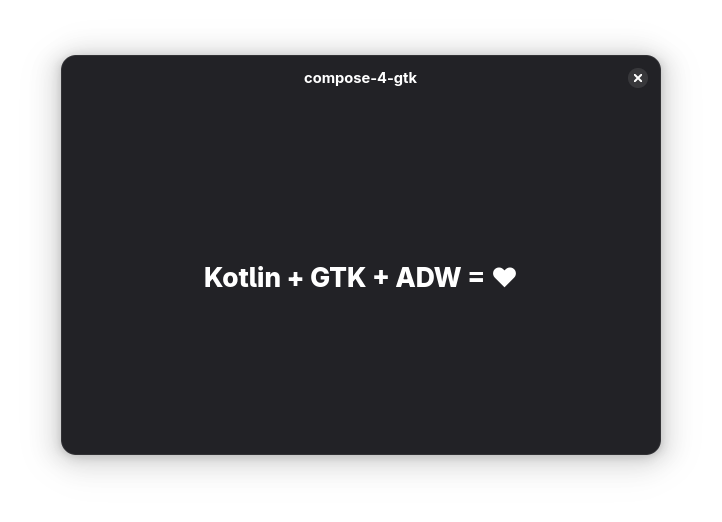
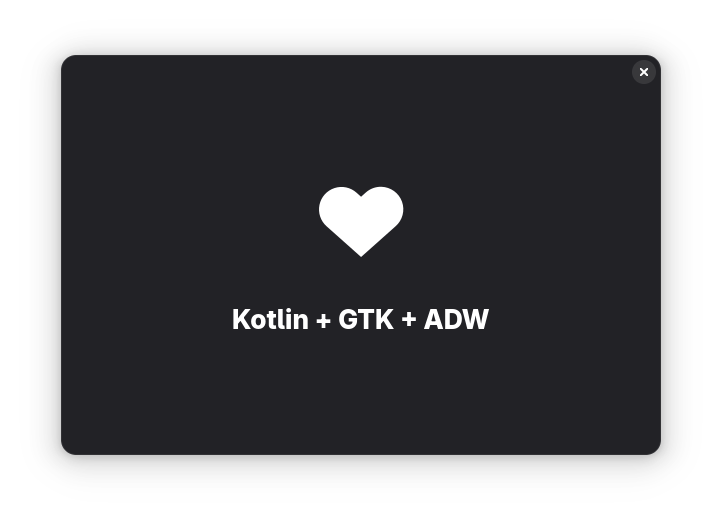
Update welcome image

diff --git a/src/test/kotlin/Welcome.kt b/src/test/kotlin/Welcome.kt
@@ -1,27 +1,51 @@
 import io.github.mmarco94.compose.adw.application
 import io.github.mmarco94.compose.adw.components.ApplicationWindow
-import io.github.mmarco94.compose.adw.components.HeaderBar
-import io.github.mmarco94.compose.gtk.components.Label
-import io.github.mmarco94.compose.gtk.components.VerticalBox
+import io.github.mmarco94.compose.gtk.ImageSource
+import io.github.mmarco94.compose.gtk.components.*
 import io.github.mmarco94.compose.modifier.Modifier
 import io.github.mmarco94.compose.modifier.alignment
 import io.github.mmarco94.compose.modifier.cssClasses
-import io.github.mmarco94.compose.modifier.expandVertically
+import io.github.mmarco94.compose.modifier.margin
+import io.github.mmarco94.compose.useGioResource
 import org.gnome.gtk.Align
+import org.gnome.gtk.Orientation
+import org.gnome.gtk.PackType
 
 fun main(args: Array<String>) {
-    application("my.example.hello-app", args) {
-        ApplicationWindow(
-            "compose-4-gtk",
-            onClose = ::exitApplication,
-            defaultWidth = 600,
-            defaultHeight = 400,
-        ) {
-            VerticalBox {
-                HeaderBar(Modifier.cssClasses("flat"))
-                Label(
-                    "Kotlin + GTK + ADW = ❤",
-                    Modifier.expandVertically().alignment(Align.CENTER).cssClasses("title-1"),
+    useGioResource("resources.gresource") {
+        application("my.example.hello-app", args) {
+            ApplicationWindow(
+                "compose-4-gtk",
+                onClose = ::exitApplication,
+                defaultWidth = 600,
+                defaultHeight = 400,
+            ) {
+                Overlay(
+                    mainChild = {
+                        CenterBox(orientation = Orientation.VERTICAL) {
+                            VerticalBox(Modifier.margin(16)) {
+                                Image(
+                                    image = ImageSource.Icon("heart-filled-symbolic"),
+                                    iconSize = ImageSize.Specific(96),
+                                    modifier = Modifier.margin(16),
+                                )
+                                Label(
+                                    "Kotlin + GTK + ADW",
+                                    Modifier.margin(16).alignment(Align.CENTER).cssClasses("title-1"),
+                                )
+                            }
+                        }
+                    },
+                    overlays = {
+                        WindowControls(
+                            side = PackType.START,
+                            modifier = Modifier.alignment(Align.START, Align.START),
+                        )
+                        WindowControls(
+                            side = PackType.END,
+                            modifier = Modifier.alignment(Align.END, Align.START),
+                        )
+                    }
                 )
             }
         }

diff --git a/src/test/kotlin/FancyWindow.kt b/src/test/kotlin/FancyWindow.kt
@@ -26,9 +26,12 @@ fun main(args: Array<String>) {
                     overlays = {
                         WindowControls(
                             side = PackType.START,
-                            modifier = Modifier.alignment(Align.START, Align.START)
+                            modifier = Modifier.alignment(Align.START, Align.START),
                         )
-                        WindowControls(side = PackType.END, modifier = Modifier.alignment(Align.END, Align.START))
+                        WindowControls(
+                            side = PackType.END,
+                            modifier = Modifier.alignment(Align.END, Align.START),
+                        )
                     },
                 )
                 HeaderBar(
